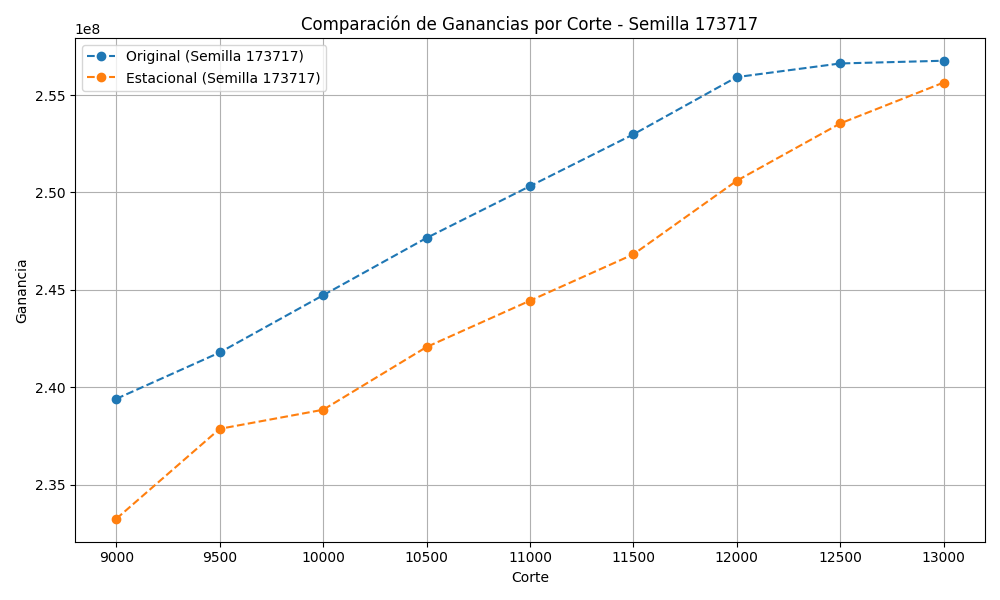
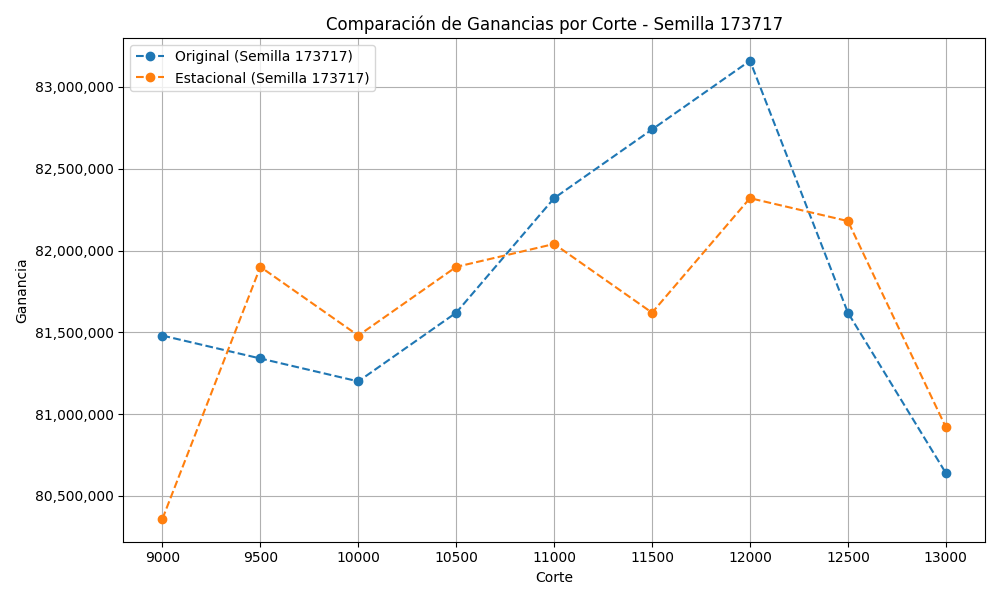
Finiquitando el experimento

diff --git a/Experimento/j024_comparacion.py b/Experimento/j024_comparacion.py
@@ -1,6 +1,11 @@
 import pandas as pd
 import os
 import matplotlib.pyplot as plt
+from matplotlib.ticker import FuncFormatter
+
+# Función para formatear en miles
+def format_miles(x, pos):
+    return f'{x:,.0f}'  # Formato con separadores de miles
 
 # Rutas y parámetros
 input_dir = "/home/mili_irusta/buckets/b1/exp/KA4210/"
@@ -14,7 +19,7 @@ semillas = [173717, 481129, 839203, 761081, 594017]
 print("Cargando y procesando datos reales...")
 datos_reales = pd.read_csv(dataset_competencia, compression="gzip")
 datos_reales = datos_reales[datos_reales["foto_mes"] == training_month]
-datos_reales["clase_real"] = datos_reales["clase_ternaria"].apply(lambda x: 1 if x in ["BAJA+1", "BAJA+2"] else 0)
+datos_reales["clase_real"] = datos_reales["clase_ternaria"].apply(lambda x: 1 if x in ["BAJA+2"] else 0)
 datos_reales = datos_reales[["numero_de_cliente", "clase_real"]]
 print("Distribución de clase_real:")
 print(datos_reales["clase_real"].value_counts())
@@ -23,7 +28,8 @@ print(datos_reales["clase_real"].value_counts())
 def calcular_ganancia_detallada(data):
     TP = ((data["Predicted"] == 1) & (data["clase_real"] == 1)).sum()
     FP = ((data["Predicted"] == 1) & (data["clase_real"] == 0)).sum()
-    return TP * 273000 - FP * 7000, TP, FP
+    ganancia = (TP * 273000) - (FP * 7000)
+    return ganancia, TP, FP
 
 # Inicializar estructuras para almacenar resultados
 ganancias_semillas_original = {semilla: {corte: None for corte in cortes} for semilla in semillas}
@@ -69,6 +75,11 @@ for semilla in semillas:
     plt.title(f"Comparación de Ganancias por Corte - Semilla {semilla}")
     plt.legend()
     plt.grid(True)
+
+    # Aplicar el formateador al eje y
+    formatter = FuncFormatter(format_miles)
+    plt.gca().yaxis.set_major_formatter(formatter)
+
     plt.tight_layout()
     plt.savefig(os.path.join(experimento_dir, f"ganancias_semilla_{semilla}.png"))
     plt.show()
@@ -86,6 +97,11 @@ plt.ylabel("Ganancia Promedio")
 plt.title("Comparación de Ganancias Promedio por Modelo y Corte")
 plt.legend()
 plt.grid(True)
+
+# Aplicar el formateador al eje y
+formatter = FuncFormatter(format_miles)
+plt.gca().yaxis.set_major_formatter(formatter)
+
 plt.tight_layout()
 plt.savefig(os.path.join(experimento_dir, "ganancias_promedio.png"))
 plt.show()
